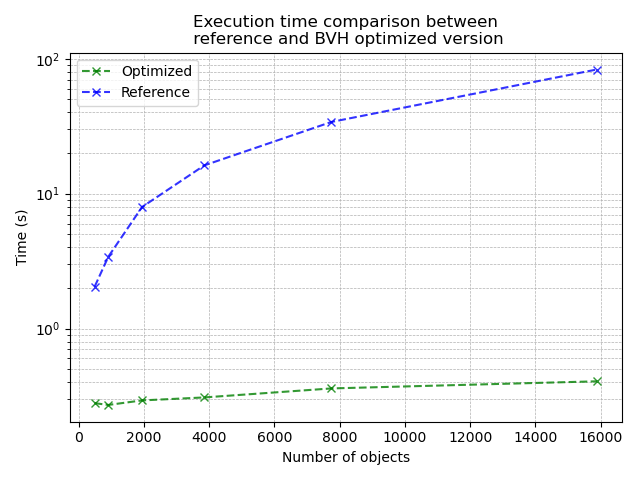
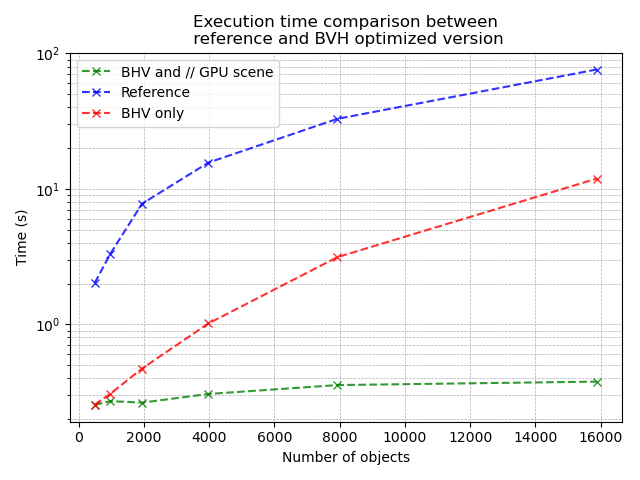
update graph with generation comparaison

diff --git a/script/bvh_comparaison.py b/script/bvh_comparaison.py
@@ -5,6 +5,7 @@ import os
 
 exec = "./bin/cudart"
 ref_exec = "./bin/cudart_ref"
+ref_exec_2 = "./bin/cudart_ref2" #this is not the right reference for the wanted plot.
 
 img_dir = "graphs/"
 data_dir = "tmp/"
@@ -13,6 +14,7 @@ n_obj = [500, 1000, 2000, 4000, 8000, 16000]
 n_obj_accurate = []
 times = []
 ref_times = []
+ref_times_2 = []
 
 def get_time_from_output(output):
     for line in output.strip().split('\n'):
@@ -32,6 +34,7 @@ if not os.path.exists(f'{data_dir}bvh_comparison_times.csv'):
         #lanch subprocess to run the executable
         n_run = 5
         ref_time = 0
+        ref2_time = 0
         opti_time = 0
 
         for _ in range(n_run):
@@ -46,22 +49,28 @@ if not os.path.exists(f'{data_dir}bvh_comparison_times.csv'):
             ref_result = subprocess.run([ref_exec, str(n)], stdout=subprocess.PIPE, text=True)
             ref_time += get_time_from_output(ref_result.stdout)
 
+            #lanch subprocess to run the second reference executable
+            ref_result_2 = subprocess.run([ref_exec_2, str(n)], stdout=subprocess.PIPE, text=True)
+            ref2_time += get_time_from_output(ref_result_2.stdout)
         print(f'Completed for n_obj={n}')
 
         times.append(opti_time / n_run)
         ref_times.append(ref_time / n_run)
+        ref_times_2.append(ref2_time / n_run)
     #save data to file
     print(n_obj_accurate)
-    np.savetxt(f'{data_dir}bvh_comparison_times.csv', np.array([n_obj, n_obj_accurate, times, ref_times]).T, header='n_obj,n_obj_accurate,opti_time,ref_time', delimiter=',')
+    np.savetxt(f'{data_dir}bvh_comparison_times.csv', np.array([n_obj, n_obj_accurate, times, ref_times, ref_times_2]).T, header='n_obj,n_obj_accurate,opti_time,ref_time,ref_time_2', delimiter=',')
 else:
     data = np.loadtxt(f'{data_dir}bvh_comparison_times.csv', skiprows=1, delimiter=',')
     n_obj = data[:,0].astype(int).tolist()
     n_obj_accurate = data[:,1].astype(int).tolist()
     times = data[:,2].tolist()
     ref_times = data[:,3].tolist()
+    ref_times_2 = data[:,4].tolist()
 
-plt.plot(n_obj_accurate, times, '--x', label='Optimized', color='green', alpha=0.8)
+plt.plot(n_obj_accurate, times, '--x', label='BHV and // GPU scene', color='green', alpha=0.8)
 plt.plot(n_obj_accurate, ref_times, '--x', label='Reference', color='blue', alpha=0.8)
+plt.plot(n_obj_accurate, ref_times_2, '--x', label='BHV only', color='red', alpha=0.8)
 plt.xlabel('Number of objects')
 plt.ylabel('Time (s)')
 plt.title('Execution time comparison between\n reference and BVH optimized version')
